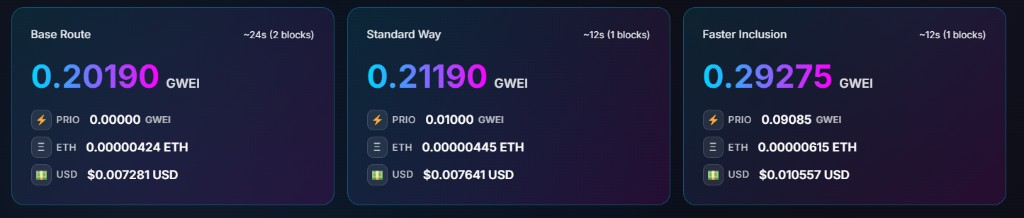
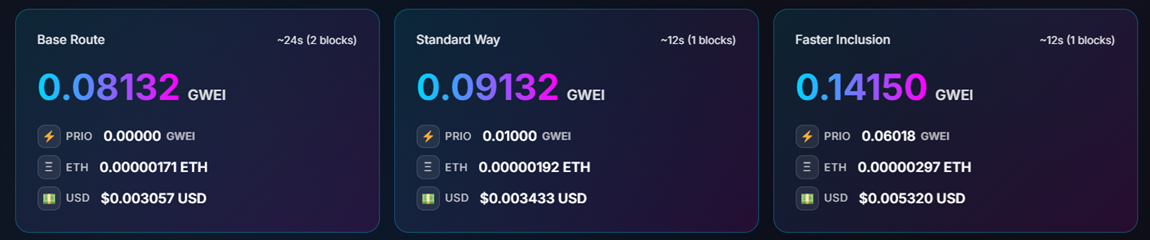
Sync screenshots from Awesome Screenshots/gas; adjust README to match UI.

diff --git a/README.md b/README.md
@@ -32,7 +32,7 @@ Backend gas math (three tiers, IPI, heatmap buckets, featured-action costs) neve
 Below the header, a horizontal **topic nav** keeps you inside one app shell instead of cold-loading eleven separate articles.
 
 - **Live App** — the realtime dashboard (network grid, tiers, charts, sidebar tools).
-- **Topic tabs** — fees today, best time to send, mempool, calculator, transaction costs, swap fees, network status, price history, percentiles, and related guides. Labels come from the backend SEO hub manifest; clicking a tab loads that page’s HTML into an **in-app panel** via embed mode (`?gt_embed=1`) while live gas fields stay wired to the same WebSocket stream.
+- **Topic tabs** — **Today**, **Why High?**, **Best Time**, **Calculator**, **Tx Costs**, **Swap Fees**, **Network**, **History**, **Percentiles** (plus related guides from the SEO hub manifest). Labels come from the backend; clicking a tab loads that page’s HTML into an **in-app panel** via embed mode (`?gt_embed=1`) while live gas fields stay wired to the same WebSocket stream.
 - **Back to Live App** — one click hides the guide panel and restores the full dashboard.
 
 Each embedded guide is cached briefly in the browser so switching tabs feels instant; headline numbers inside the panel still sync from the live gas object. Crawlers and direct URL visitors get the same content as full WordPress pages with theme chrome — the in-app panel is the reader-friendly shortcut for people already on the tracker.
@@ -49,25 +49,25 @@ Ethereum post-EIP-1559 pricing is not one number — senders trade off cost vs i
 | **Standard Way** | Balanced default — the tier most users should compare against wallet “medium” estimates. |
 | **Faster Inclusion** | Priority-heavy path when mempools are busy, NFT mints are competitive, or you need the next block. |
 
-Each card shows **gwei** (base + priority breakdown), **ETH and USD estimates** for a reference transfer, and a plain-language **confirmation hint** (“~1 block”, “may take several blocks”, etc.). Cards pulse-update on every WebSocket tick so you watch fees move during a congestion spike without refreshing.
+Each card shows **gwei** (base + priority breakdown), **ETH and USD estimates** for a reference transfer, and a plain-language **confirmation hint** in the top-right corner — typically **~12s (1 block)** for Standard and Faster, **~24s (2 blocks)** for Base Route when the network is calm. Below the headline gwei, **Prio**, **ETH**, and **USD** rows update on every WebSocket tick so you watch fees move during a congestion spike without refreshing.
 
 When Standard is elevated vs its rolling average, the **Gas Intelligence Hub** (sidebar) nudges you toward wait-or-send guidance rather than leaving you to guess from a single red number.
 
-**Example:** your wallet shows three opaque speeds — map **low / medium / high** to **Base Route / Standard Way / Faster Inclusion** here first. Competitive NFT mint with a short window → watch **Faster Inclusion** and **fee competition**; routine ERC-20 send when **network status** is Normal → **Base Route** is usually enough if the confirmation hint allows an extra block.
+**Example:** your wallet shows three opaque speeds — map **low / medium / high** to **Base Route / Standard Way / Faster Inclusion** here first. Competitive NFT mint with a short window → watch **Faster Inclusion** and **fee competition**; routine ERC-20 send when **network status** is **LOW** or **NORMAL** → **Base Route** is usually enough if the **~24s (2 blocks)** hint is acceptable.
 
 ![Three send tiers — Base Route, Standard Way, Faster Inclusion](assets/send-tiers.png)
 
 ### Network statistics
 
-Above the tier cards, a **network statistics grid** answers *why* fees moved — not only *what* they are. Metrics include:
+Above the tier cards, a **network statistics grid** sits under the topic nav bar — twelve KPI cells in a responsive grid. Metrics include:
 
 - **Tx / minute** — estimated from recent blocks; primary activity signal when mempool depth is noisy.
-- **Network status** — Normal / Elevated / High / Spike labels derived from backend stress scoring.
-- **Trend (Standard)** — short-term direction vs the last hour so you see fees climbing before they peak.
+- **Network status** — **LOW**, **NORMAL**, **HIGH**, or **SPIKE** labels derived from backend stress scoring (green **LOW** when conditions are quiet).
+- **Trend (Standard)** — short-term direction with arrow and gwei delta vs the last hour.
 - **Last block** — anchor for staleness checks.
-- **Avg / current block size and utilization** — how full blocks are; high utilization usually means higher competition for space.
+- **Avg / current block size and utilization** — gas used vs block limit, including **% of limit** sublabels on current block.
 - **IPI (Inclusion Pressure Index) 0–100** — single stress score aligned with the Intelligence Hub.
-- **SPIKE score** and **fee competition** — how aggressive other senders are right now (priority spread between high and median tips).
+- **SPIKE score** and **fee competition** — short-term regime vs baseline; **GWEI (P90−P50 tip)** spread for how aggressive other senders are.
 - **Block speed pressure** — share of recent blocks above 90% full, affecting queue drain rate.
 
 Use this panel when Standard jumped but you are unsure if it is a blip (one fat block) or sustained load (climbing tx/min + high utilization).
@@ -193,6 +193,38 @@ Eleven indexable URLs on logicencoder.com are filled with **live data**, not sta
 | Percentiles | [ethereum-gas-percentiles](https://logicencoder.com/ethereum-gas-percentiles/) | Statistical deep dive |
 
 **Embed mode** (`?gt_embed=1`) serves a chromeless view for in-app panels and third-party iframes without WordPress theme chrome. The retired `/ethereum-gas-tracker-live/` path returns gone — the canonical live URL is `/ethereum-gas-tracker/`.
+
+### Gas fees today (SEO page)
+
+The **[ethereum-gas-fees-today](https://logicencoder.com/ethereum-gas-fees-today/)** landing is a dated article-style page filled from live backend data — not static copy. Three tables anchor the page:
+
+- **Today’s Gas Statistics** — today’s average, low/high with UTC hour, yesterday comparison, P50/P80, transaction count, avg block utilization.
+- **Multi-Period Comparison** — today vs yesterday vs **7-day** and **30-day** averages in one row.
+- **Network Intelligence Today** — IPI, spike score, fee competition, block speed pressure, tx/min, network health score, ETH/USD and last-updated footer.
+
+Prose sections below explain how daily patterns work (US/EU business-hour peaks vs overnight lulls). FAQ blocks answer “what are fees today?” in plain language for search snippets.
+
+**Example:** you landed from Google on “gas fees today” — read **Multi-Period Comparison** first: if today sits far above **7-Day Average**, open the live tracker’s **7 Days** chart before sending; click **Live App** in the topic nav to watch tiers update in realtime.
+
+![Gas fees today — statistics tables and network intelligence](assets/seo-gas-fees-today.png)
+
+### Swap gas fees (SEO page)
+
+**[ethereum-swap-gas-fees](https://logicencoder.com/ethereum-swap-gas-fees/)** targets DeFi swap queries. **Swap Costs by Speed** lists Base / Standard / Faster with gwei, swap-only USD, and **total with approve** (first-time DEX users often miss the one-time approval). **Network Intelligence for DeFi** explains IPI, spike score, fee competition, block speed pressure, DeFi activity level, and tx/min with an **Impact** column. **Historical Swap Cost Context** compares 1h / 24h / 7d average swap cost.
+
+Educational sections cover why swaps cost more than transfers (~180k gas), the hidden approve step (~46k gas), and when waiting beats swapping (spike score and IPI thresholds in the copy).
+
+**Example:** planning your first Uniswap trade — read **total with approve** on **Standard Way** before you set slippage; if **Spike Score** impact says consider waiting above 60, defer and set an **UNDER** alert on the live dashboard instead of forcing the swap.
+
+![Swap gas fees — tier table, DeFi intelligence, historical context](assets/seo-swap-gas-fees.png)
+
+### Network status (SEO page)
+
+**[ethereum-network-status](https://logicencoder.com/ethereum-network-status/)** is the health dashboard for “is Ethereum congested?” searches. A **Full Network Intelligence Dashboard** table lists network status, health score, IPI, spike score, fee competition, block speed pressure, block utilization, tx/min, Standard gwei, 24h/7d averages, and timestamp — each with an **Interpretation** column. Long-form copy defines **LOW / NORMAL / HIGH / SPIKE** regimes and what each means for send timing (same scale as the live grid’s **Network status** cell).
+
+**Example:** non-urgent transfer while status reads **HIGH** — read the interpretation for **Block utilization** and **IPI**; if both elevated, use **Best Time** or the heatmap on the live app rather than submitting on **Faster Inclusion** immediately.
+
+![Network status — intelligence dashboard and status-level guide](assets/seo-network-status.png)
 
 ## WordPress embedding
 